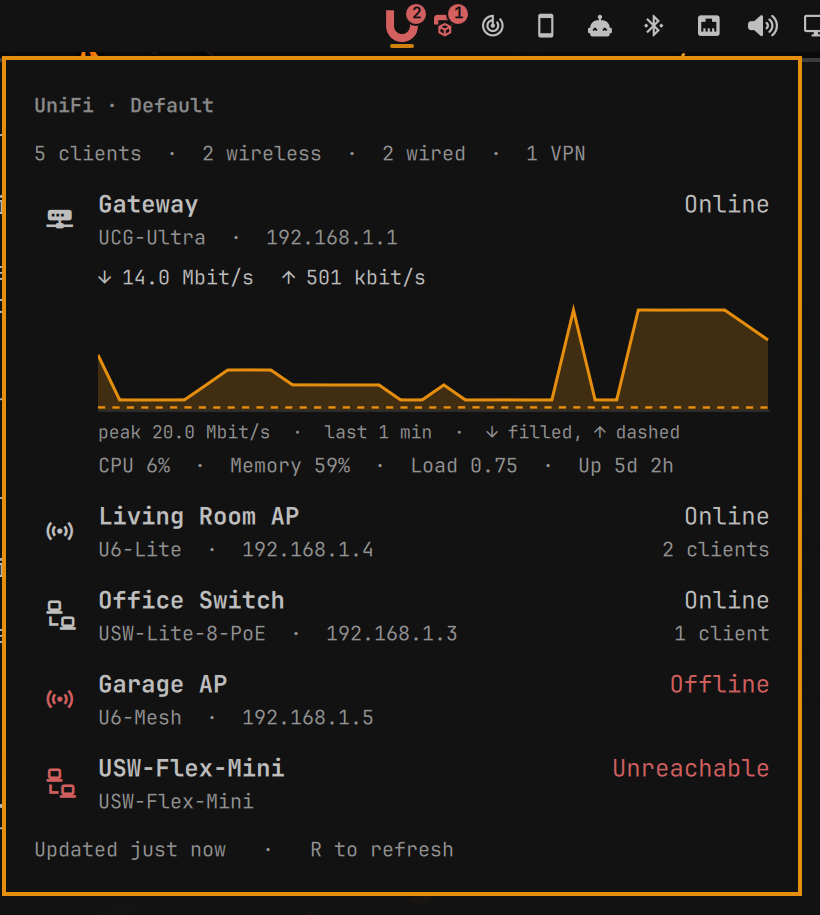
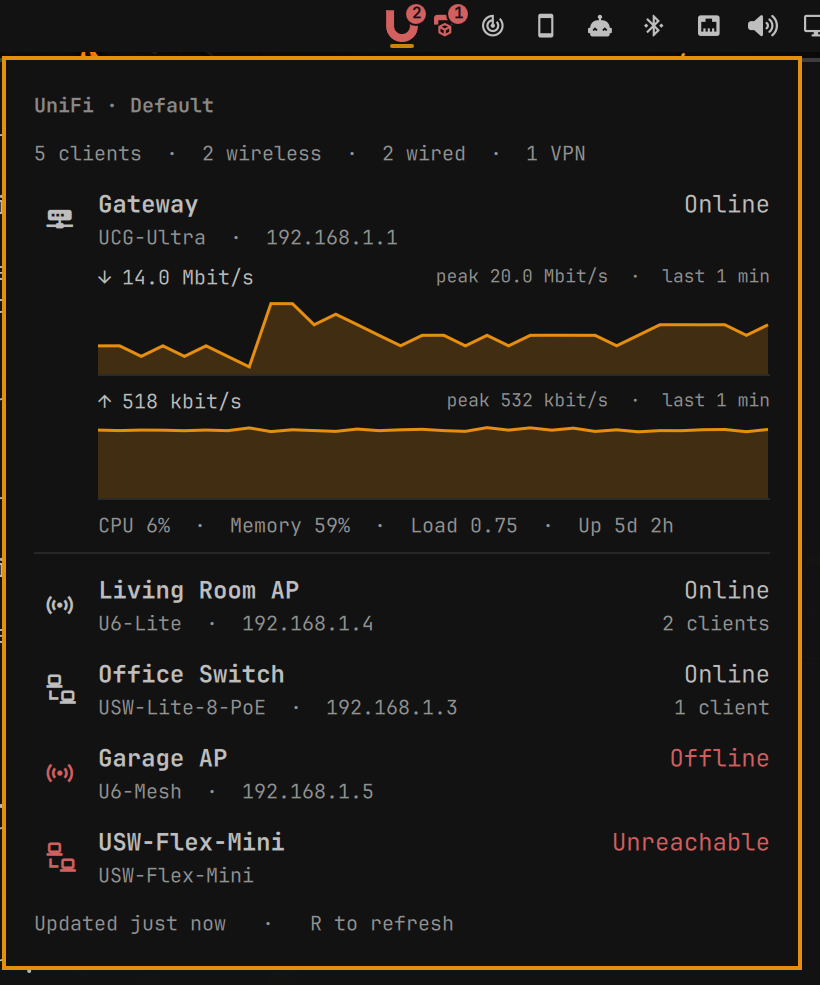
Graph download and upload separately
Upload is usually a fraction of download, and on a shared axis it flattened
into the baseline. Each direction now has its own graph and scale, headed by
the current rate and its peak.

diff --git a/components/GatewayStats.qml b/components/GatewayStats.qml
@@ -5,8 +5,8 @@ import qs.Commons
 import qs.Ui
 
 // The gateway's vital signs under its row: WAN download and upload right now,
-// a graph of both over the samples the widget has collected, and CPU, memory
-// and uptime.
+// each with a graph over the samples the widget has collected, and CPU,
+// memory and uptime.
 //
 // `history` is an array of {t, rx, tx} in bits per second, oldest first. The
 // widget owns it and appends one entry per controller heartbeat, so the graph
@@ -18,7 +18,7 @@ Column {
   property var latest: null
   property var history: []
 
-  spacing: Style.space(4)
+  spacing: Style.space(6)
 
   // Bits per second, as the API reports them, in the unit that fits.
   function formatRate(bps) {
@@ -47,134 +47,123 @@ Column {
   readonly property string downGlyph: String.fromCodePoint(0xF0045)   // md-arrow_down
   readonly property string upGlyph: String.fromCodePoint(0xF005D)     // md-arrow_up
 
-  // Rates line: what is flowing through the WAN right now.
-  Row {
-    width: parent.width
-    spacing: Style.space(14)
-
-    Text {
-      text: stats.downGlyph + " " + stats.formatRate(stats.latest ? stats.latest.rxBps : null)
-      color: Color.popups.text
-      font.family: Style.font.family
-      font.pixelSize: Style.font.caption
-    }
-    Text {
-      text: stats.upGlyph + " " + stats.formatRate(stats.latest ? stats.latest.txBps : null)
-      color: Color.popups.text
-      font.family: Style.font.family
-      font.pixelSize: Style.font.caption
-    }
+  function peakOf(key) {
+    var peak = 0
+    for (var i = 0; i < history.length; i++) peak = Math.max(peak, history[i][key])
+    return peak
   }
 
-  // The graph. Download is the filled area, upload the dashed line: two
-  // series told apart by shape rather than hue, since a theme is free to
-  // make accent and text the same colour, and this one does.
-  Canvas {
-    id: graph
-    width: parent.width
-    height: Style.space(56)
-    visible: stats.history.length >= 2
-
-    readonly property color lineColor: Color.accent
-    readonly property color fillColor: Qt.rgba(Color.accent.r, Color.accent.g, Color.accent.b, 0.22)
-    readonly property color axisColor: Qt.rgba(Color.popups.text.r, Color.popups.text.g, Color.popups.text.b, 0.15)
-
-    onWidthChanged: requestPaint()
-    onLineColorChanged: requestPaint()
-    Connections {
-      target: stats
-      function onHistoryChanged() { graph.requestPaint() }
-    }
-
-    onPaint: {
-      var ctx = getContext("2d")
-      ctx.reset()
-      ctx.clearRect(0, 0, width, height)
-
-      var points = stats.history
-      var count = points.length
-      if (count < 2) return
-
-      var peak = 1000   // never scale below 1 kbit/s, or idle noise fills the box
-      for (var i = 0; i < count; i++) {
-        var p = points[i]
-        if (p.rx > peak) peak = p.rx
-        if (p.tx > peak) peak = p.tx
-      }
-      // A little headroom so the peak does not kiss the top edge.
-      peak *= 1.08
-
-      var top = 1, bottom = height - 1
-      function xAt(index) { return index * (width - 1) / (count - 1) }
-      function yAt(value) { return bottom - (bottom - top) * Math.max(0, value) / peak }
-
-      // Baseline.
-      ctx.strokeStyle = axisColor
-      ctx.lineWidth = 1
-      ctx.beginPath()
-      ctx.moveTo(0, bottom + 0.5)
-      ctx.lineTo(width, bottom + 0.5)
-      ctx.stroke()
-
-      // Download: filled area under a solid line.
-      ctx.beginPath()
-      ctx.moveTo(xAt(0), bottom)
-      for (var d = 0; d < count; d++) ctx.lineTo(xAt(d), yAt(points[d].rx))
-      ctx.lineTo(xAt(count - 1), bottom)
-      ctx.closePath()
-      ctx.fillStyle = fillColor
-      ctx.fill()
-
-      ctx.beginPath()
-      for (var l = 0; l < count; l++) {
-        if (l === 0) ctx.moveTo(xAt(l), yAt(points[l].rx))
-        else ctx.lineTo(xAt(l), yAt(points[l].rx))
-      }
-      ctx.strokeStyle = lineColor
-      ctx.lineWidth = 1.5
-      ctx.setLineDash([])
-      ctx.stroke()
-
-      // Upload: dashed line, no fill.
-      ctx.beginPath()
-      for (var u = 0; u < count; u++) {
-        if (u === 0) ctx.moveTo(xAt(u), yAt(points[u].tx))
-        else ctx.lineTo(xAt(u), yAt(points[u].tx))
-      }
-      ctx.strokeStyle = lineColor
-      ctx.lineWidth = 1.2
-      ctx.setLineDash([3, 3])
-      ctx.stroke()
-      ctx.setLineDash([])
-    }
+  readonly property string spanLabel: {
+    var pts = history
+    if (pts.length < 2) return ""
+    var spanSec = (pts[pts.length - 1].t - pts[0].t) / 1000
+    if (spanSec >= 3600) return Math.round(spanSec / 3600 * 10) / 10 + " h"
+    return Math.max(1, Math.round(spanSec / 60)) + " min"
   }
 
-  // Scale and span of the graph, so the picture has units.
-  Text {
-    width: parent.width
-    visible: graph.visible
-    text: {
-      var pts = stats.history
-      var peak = 0
-      for (var i = 0; i < pts.length; i++) peak = Math.max(peak, pts[i].rx, pts[i].tx)
-      var spanSec = pts.length >= 2 ? (pts[pts.length - 1].t - pts[0].t) / 1000 : 0
-      var span = spanSec >= 3600 ? Math.round(spanSec / 3600 * 10) / 10 + " h"
-                                 : Math.max(1, Math.round(spanSec / 60)) + " min"
-      return "peak " + stats.formatRate(peak) + "  ·  last " + span
-        + "  ·  " + stats.downGlyph + " filled, " + stats.upGlyph + " dashed"
-    }
-    color: stats.host.detailColor
-    font.family: Style.font.family
-    font.pixelSize: Math.max(8, Math.round(Style.font.caption * 0.9))
-  }
+  // One graph per direction, each on its own scale: upload is usually a
+  // fraction of download, and on a shared axis it flattened into the
+  // baseline. Same shape for both, so the eye compares them by height only.
+  RateGraph { key: "rx"; glyph: stats.downGlyph; label: "Download" }
+  RateGraph { key: "tx"; glyph: stats.upGlyph; label: "Upload" }
 
-  Text {
+  component RateGraph: Column {
+    id: rate
+
+    required property string key
+    required property string glyph
+    required property string label
+
     width: parent.width
-    visible: graph.visible === false && stats.history.length > 0
-    text: "Collecting samples for the graph…"
-    color: stats.host.detailColor
-    font.family: Style.font.family
-    font.pixelSize: Math.max(8, Math.round(Style.font.caption * 0.9))
+    spacing: Style.space(2)
+
+    readonly property real current: stats.latest ? stats.latest[key === "rx" ? "rxBps" : "txBps"] : NaN
+    readonly property real peak: stats.peakOf(key)
+
+    Row {
+      width: parent.width
+
+      Text {
+        id: nowText
+        text: rate.glyph + " " + stats.formatRate(rate.current)
+        color: Color.popups.text
+        font.family: Style.font.family
+        font.pixelSize: Style.font.caption
+      }
+
+      Text {
+        width: parent.width - nowText.implicitWidth
+        horizontalAlignment: Text.AlignRight
+        elide: Text.ElideLeft
+        text: stats.history.length >= 2
+          ? "peak " + stats.formatRate(rate.peak) + "  ·  last " + stats.spanLabel
+          : "collecting samples…"
+        color: stats.host.detailColor
+        font.family: Style.font.family
+        font.pixelSize: Math.max(8, Math.round(Style.font.caption * 0.9))
+      }
+    }
+
+    Canvas {
+      id: graph
+      width: parent.width
+      height: Style.space(40)
+
+      readonly property color lineColor: Color.accent
+      readonly property color fillColor: Qt.rgba(Color.accent.r, Color.accent.g, Color.accent.b, 0.22)
+      readonly property color axisColor: Qt.rgba(Color.popups.text.r, Color.popups.text.g, Color.popups.text.b, 0.15)
+
+      onWidthChanged: requestPaint()
+      onLineColorChanged: requestPaint()
+      Connections {
+        target: stats
+        function onHistoryChanged() { graph.requestPaint() }
+      }
+
+      onPaint: {
+        var ctx = getContext("2d")
+        ctx.reset()
+        ctx.clearRect(0, 0, width, height)
+
+        var top = 1, bottom = height - 1
+
+        // Baseline, drawn even before there is anything to plot so the box
+        // has a floor rather than being blank space.
+        ctx.strokeStyle = axisColor
+        ctx.lineWidth = 1
+        ctx.beginPath()
+        ctx.moveTo(0, bottom + 0.5)
+        ctx.lineTo(width, bottom + 0.5)
+        ctx.stroke()
+
+        var points = stats.history
+        var count = points.length
+        if (count < 2) return
+
+        // Never scale below 1 kbit/s, or idle noise fills the box; a little
+        // headroom so the peak does not kiss the top edge.
+        var peak = Math.max(1000, rate.peak) * 1.08
+        function xAt(index) { return index * (width - 1) / (count - 1) }
+        function yAt(value) { return bottom - (bottom - top) * Math.max(0, value) / peak }
+
+        ctx.beginPath()
+        ctx.moveTo(xAt(0), bottom)
+        for (var d = 0; d < count; d++) ctx.lineTo(xAt(d), yAt(points[d][rate.key]))
+        ctx.lineTo(xAt(count - 1), bottom)
+        ctx.closePath()
+        ctx.fillStyle = fillColor
+        ctx.fill()
+
+        ctx.beginPath()
+        for (var l = 0; l < count; l++) {
+          if (l === 0) ctx.moveTo(xAt(l), yAt(points[l][rate.key]))
+          else ctx.lineTo(xAt(l), yAt(points[l][rate.key]))
+        }
+        ctx.strokeStyle = lineColor
+        ctx.lineWidth = 1.5
+        ctx.stroke()
+      }
+    }
   }
 
   // Health line.

diff --git a/README.md b/README.md
@@ -5,10 +5,10 @@ gateway on a site with its online state, model, address and how many clients
 hang off it, plus wired/wireless client totals. The bar icon carries a badge
 with the number of offline devices, and a notification fires when a device
 drops or comes back. Under the gateway it shows what is flowing through the
-WAN — download and upload right now and a graph of both since the shell
+WAN — download and upload right now, each with a graph since the shell
 started — plus CPU, memory, load and uptime. It is read-only.
 
-![The panel listing a gateway with its WAN rates, a graph and health line,
+![The panel listing a gateway with its WAN rates, two graphs and health line,
 then two access points and two switches with their state, address and client
 counts; one access point offline and one switch unreachable](preview.png)
 
